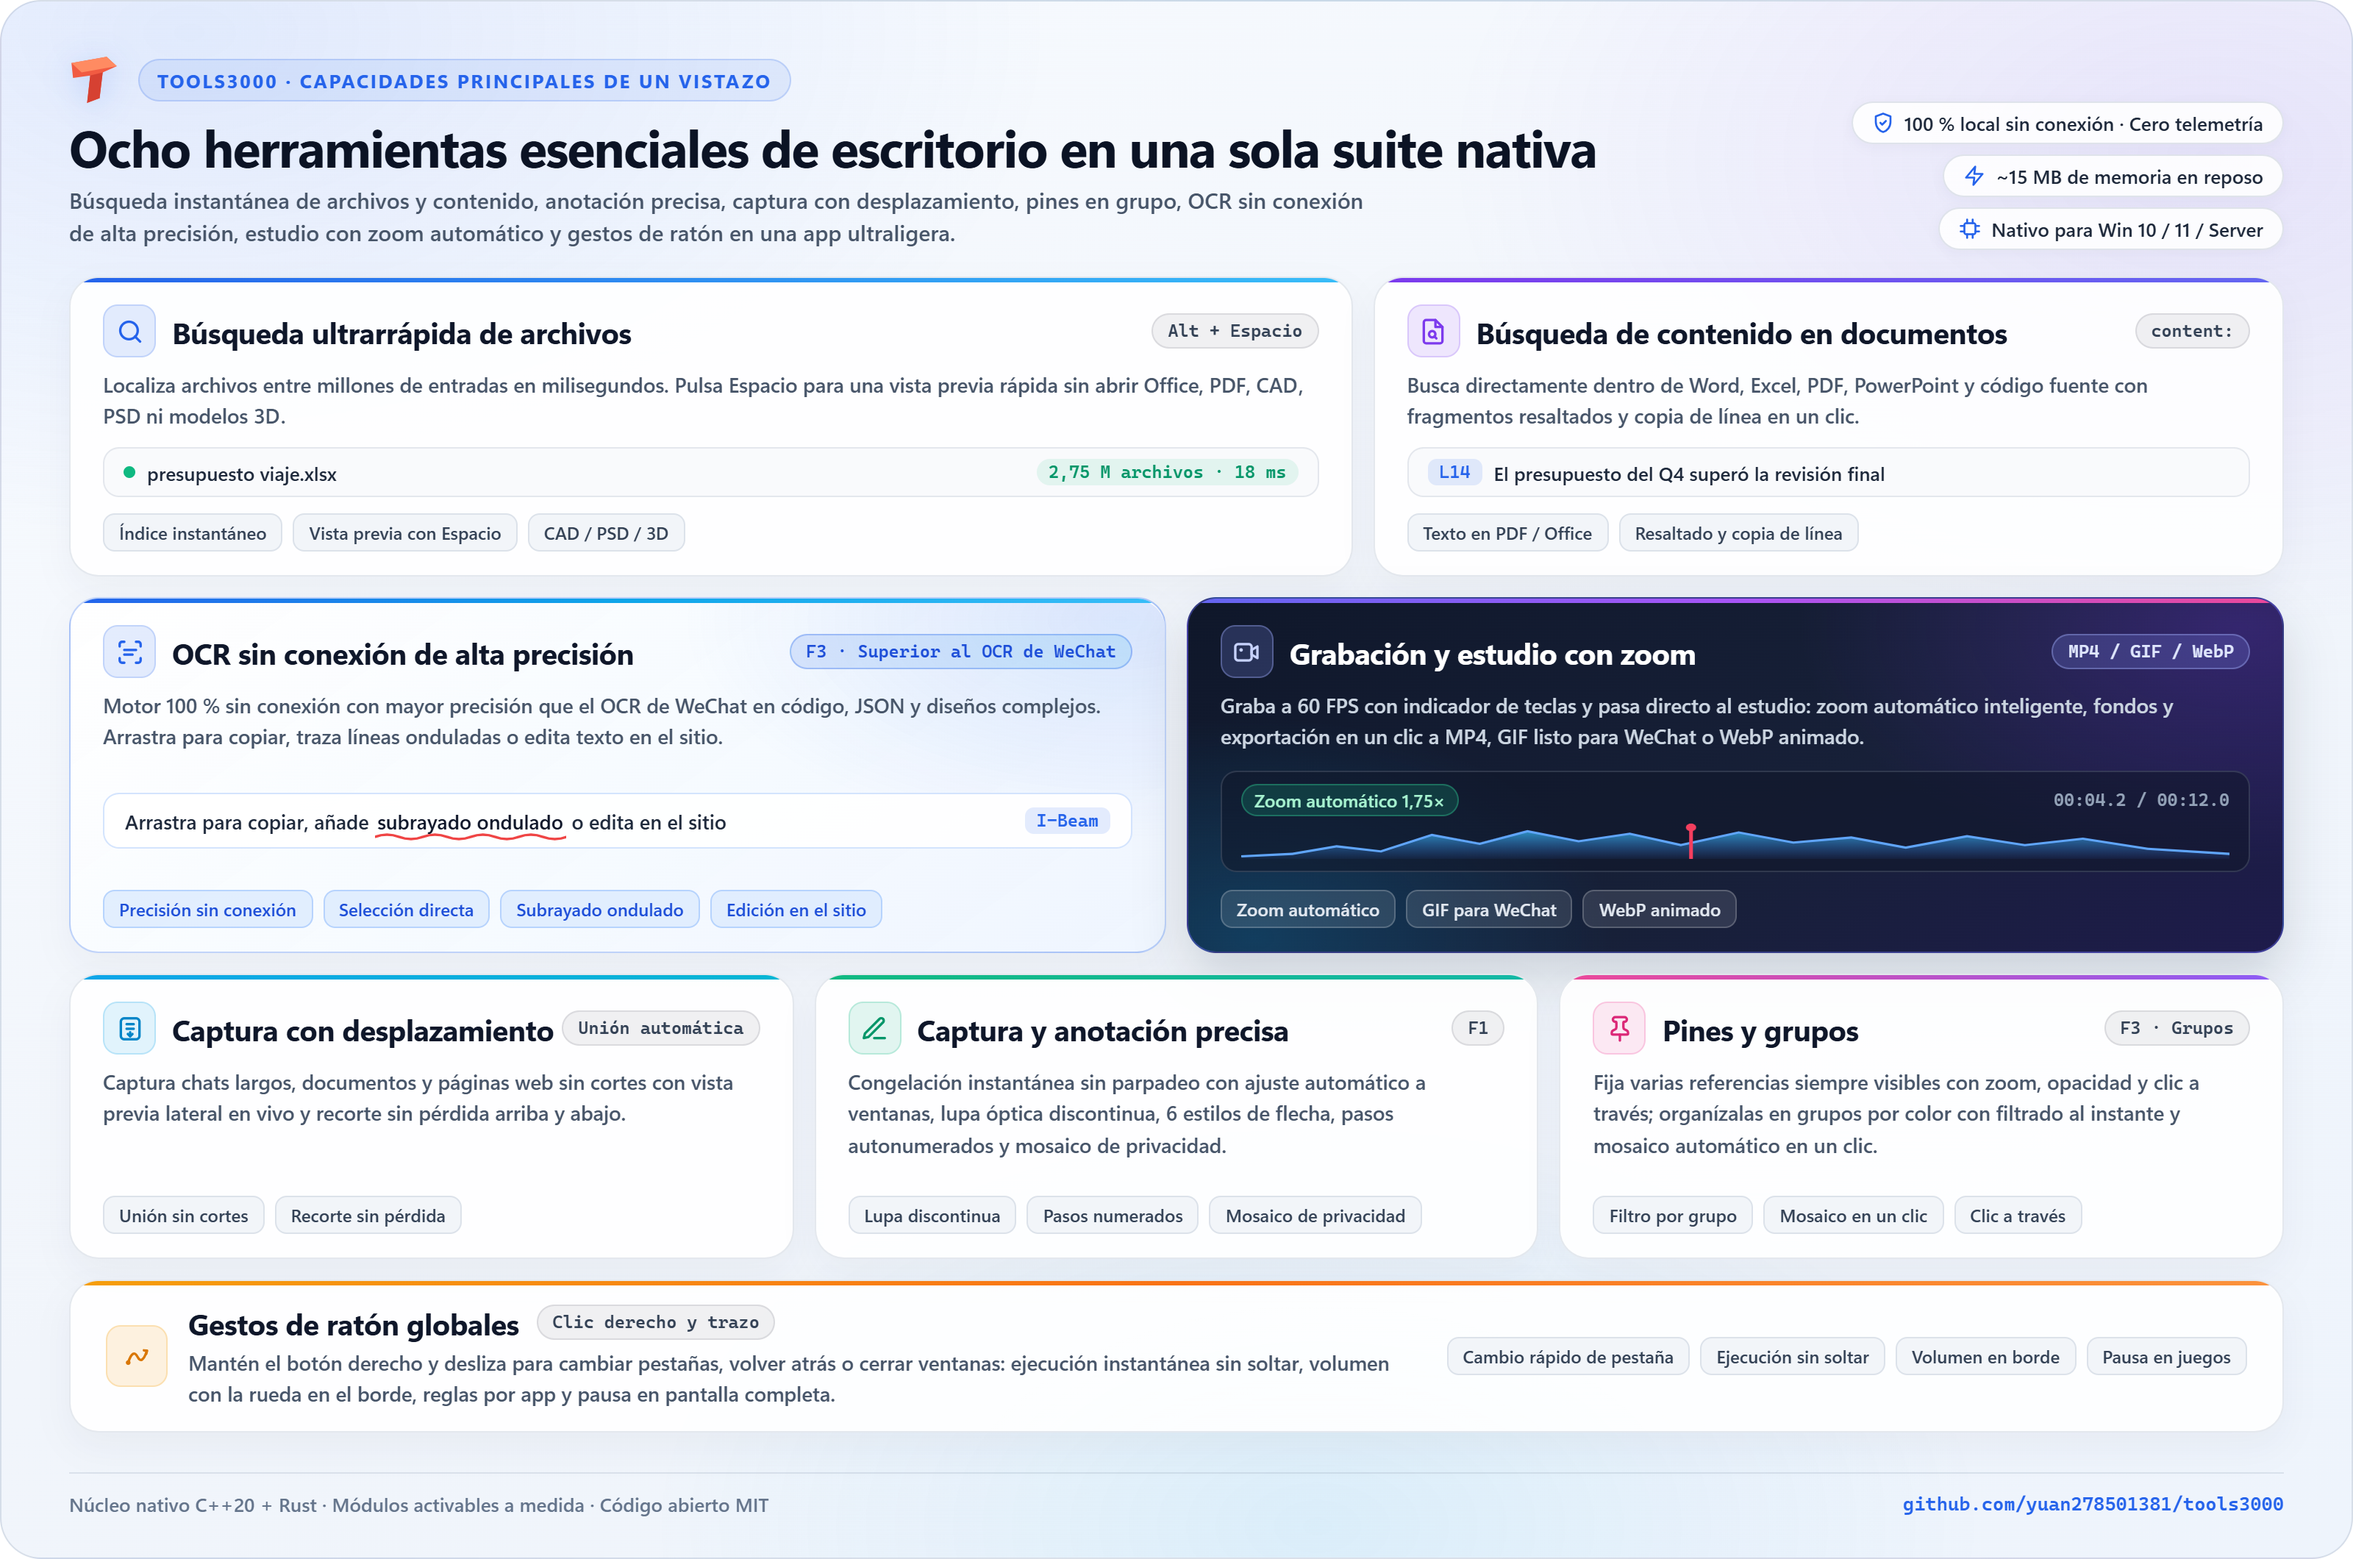
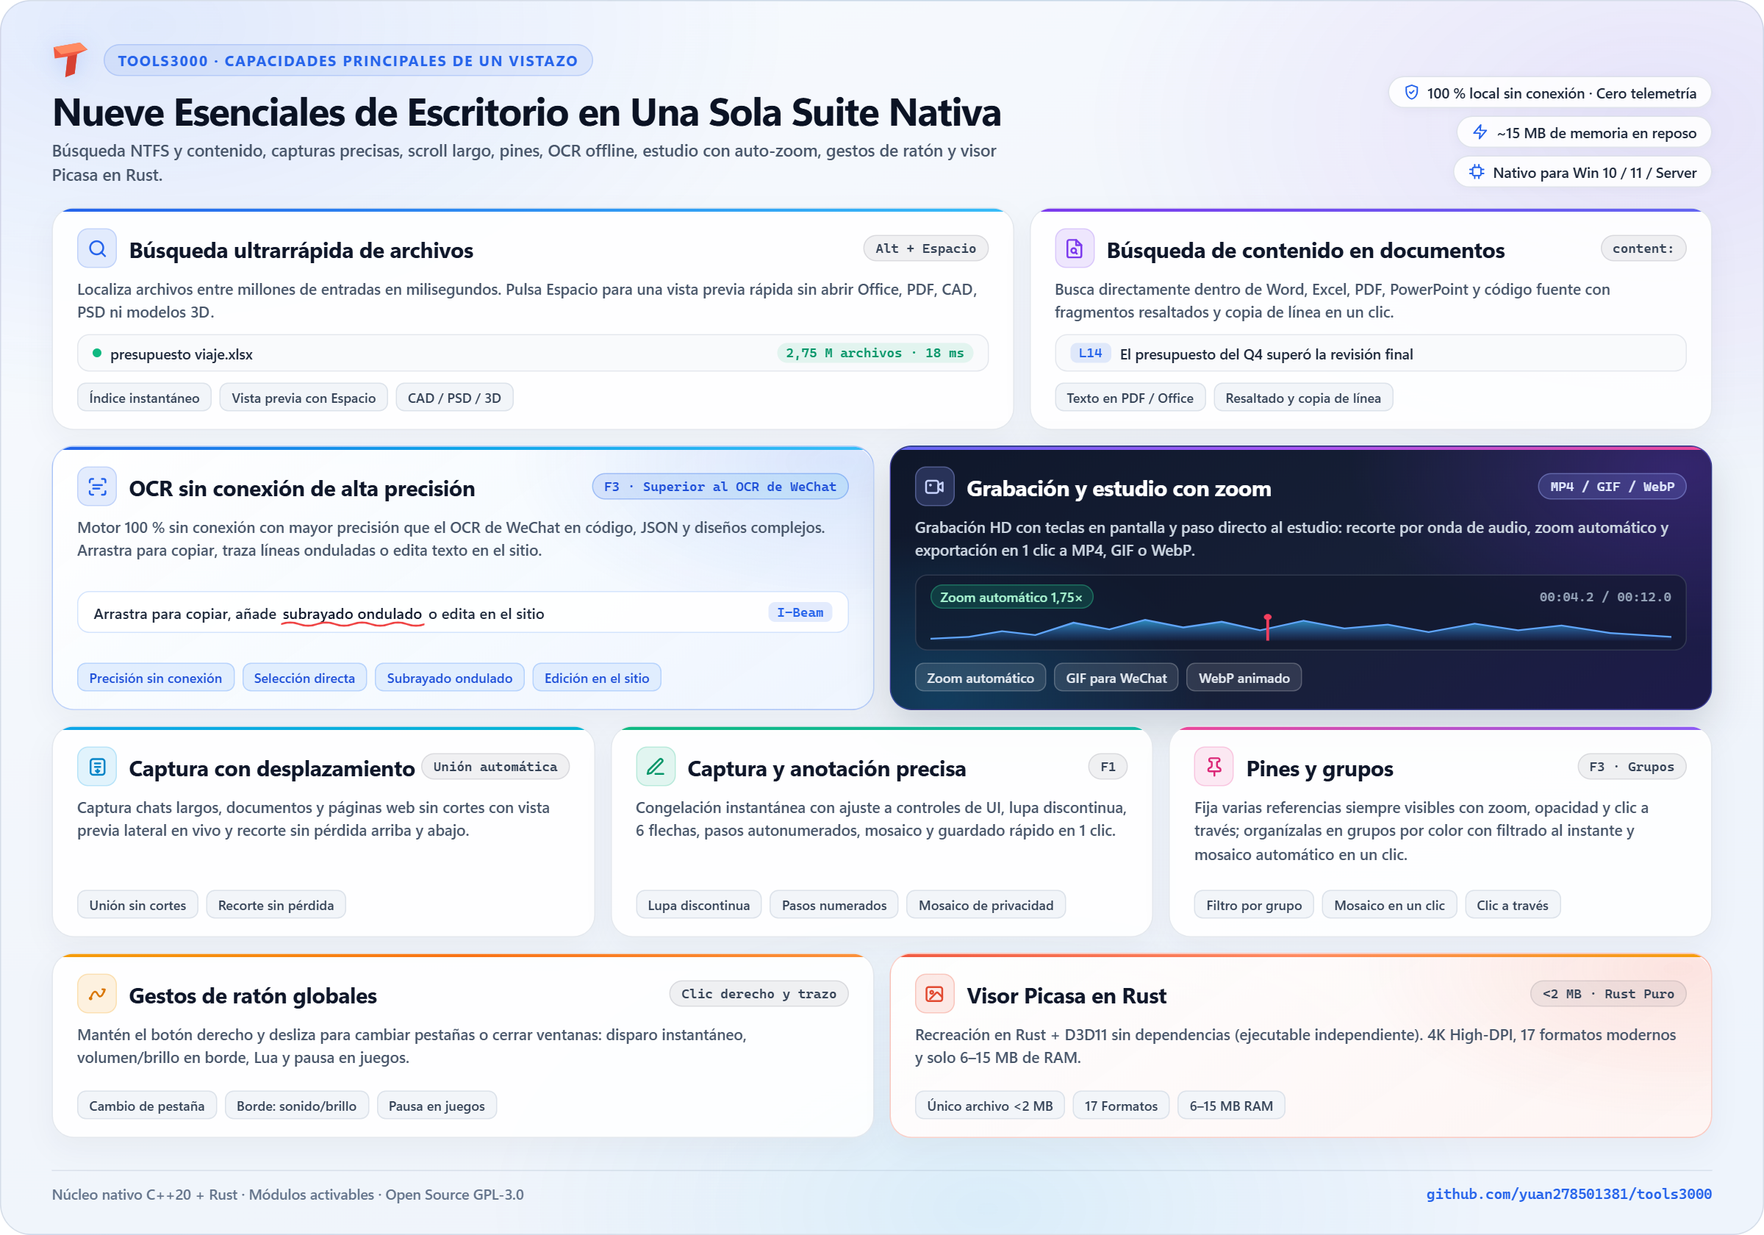
docs(readme): 升级 8 语种 Bento 总览海报为九大能力并同步 GPL-3.0 与 v1.3.0 口径
[业务角度]
- 为全部 8 种语言（简中/繁中/英/日/韩/俄/巴葡/西）的首页核心能力总览图新增独立「Rust Picasa 轻量看图器」卡片，升级为九大高频桌面利器一图速览
- 修正旧总览图左下角残留的 MIT 许可字样为 GPL-3.0 开源协议，并同步校准录屏、截图标注快速保存与屏幕边缘滚轮亮度调节文案，便于 GitHub 主页与各平台推广直接复用

[技术角度]
- 将 Bento 海报网格从 2+2+3+1 八卡扩展为 2+2+3+2 九卡布局（2400x1680，1.5x Retina 渲染，PNG 最高压缩优化至 ~0.8-1.0 MB）
- 同步更新全部 8 份 README*.md 中 feature_bento_overview.png 的 alt 文本描述，不改动任何二进制代码

diff --git a/README.es.md b/README.es.md
@@ -28,7 +28,7 @@ Tools3000 integra en una sola aplicación nativa para Windows las herramientas e
 ## Vista general
 
 <p align="center">
-  <img src="docs/images/es-ES/feature_bento_overview.png" alt="Resumen de las ocho capacidades principales de Tools3000" width="100%" />
+  <img src="docs/images/es-ES/feature_bento_overview.png" alt="Resumen de las nueve capacidades principales de Tools3000" width="100%" />
 </p>
 
 ---

diff --git a/README.pt-BR.md b/README.pt-BR.md
@@ -28,7 +28,7 @@ O Tools3000 reúne em um único aplicativo nativo para Windows as ferramentas es
 ## Visão geral
 
 <p align="center">
-  <img src="docs/images/pt-BR/feature_bento_overview.png" alt="Visão geral dos oito recursos principais do Tools3000" width="100%" />
+  <img src="docs/images/pt-BR/feature_bento_overview.png" alt="Visão geral dos nove recursos principais do Tools3000" width="100%" />
 </p>
 
 ---

diff --git a/README.en.md b/README.en.md
@@ -28,7 +28,7 @@ Tools3000 unifies everyday **file search, document content search, scrolling cap
 ## At a Glance
 
 <p align="center">
-  <img src="docs/images/en-US/feature_bento_overview.png" alt="Tools3000 Eight Core Capabilities Overview" width="100%" />
+  <img src="docs/images/en-US/feature_bento_overview.png" alt="Tools3000 Nine Core Capabilities Overview" width="100%" />
 </p>
 
 ---
